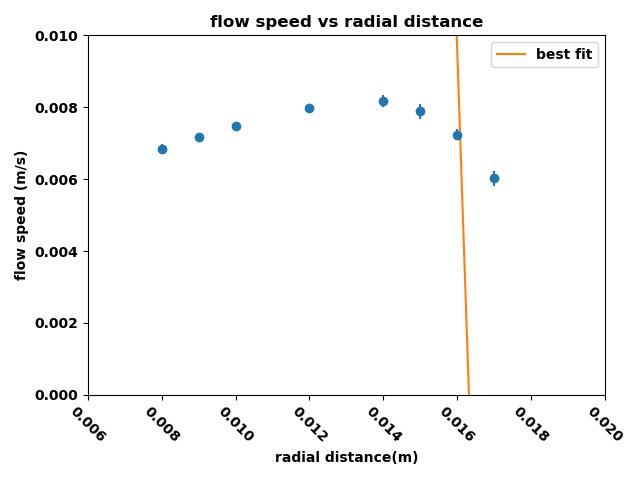
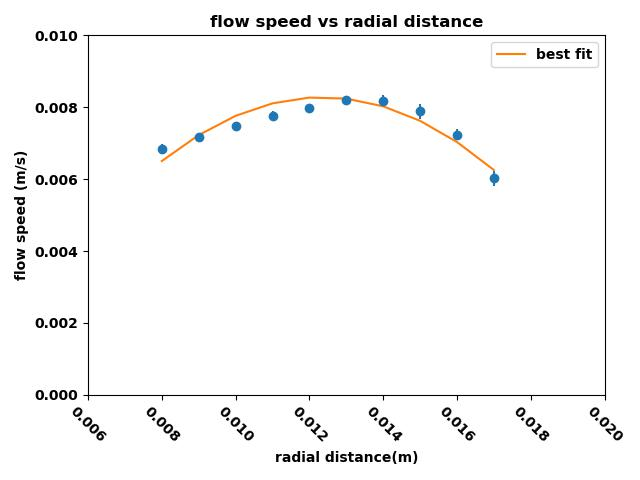
fixed mistake in 18cm data

diff --git a/analysis_corrected_focal_inter.py b/analysis_corrected_focal_inter.py
@@ -71,8 +71,8 @@ def correct_radial(DF):
 
 
 # LOAD CSV
-data_path = f"{getcwd()}/DataExtensive_6_12/data_24.csv"
-file_ID = "6_12_24"
+data_path = f"{getcwd()}/DataExtensive_6_12/data_18.csv"
+file_ID = "6_12_18"
 data = pd.read_csv(data_path, sep=";")
 
 wave_length = 632e-9
